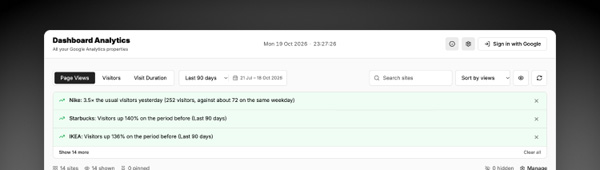
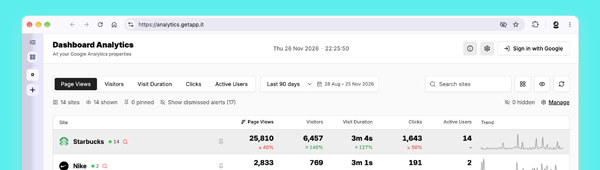
Update Italian translations and enhance footer content for clarity

diff --git a/index.html b/index.html
@@ -44,8 +44,8 @@
                   <span class="badge rounded-pill text-bg-light border"><small>Browser</small></span>
                   <span class="badge rounded-pill text-bg-light border"><small>Utility</small></span>
                 </div>
-                <h5 class="card-title mb-1 lh-sm">Islnd • Floating address bar</h5>
-                <p class="card-text lh-sm">A floating address bar for every page. Islnd is a browser extension for Firefox and Edge, with Chrome coming soon. Address, search, history and commandsin a small bar that floats over the web.</p>
+                <h5 class="card-title mb-1 lh-sm">Islnd • Barra degli indirizzi</h5>
+                <p class="card-text lh-sm">Una barra degli indirizzi fluttuante per ogni pagina. Island è un'estensione per browser disponibile per Firefox ed Edge; a breve arriverà anche per Chrome.</p>
               </div>
             </div>
           </div>
@@ -61,12 +61,12 @@
             <div class="col-12">
               <div class="card-body p-0">
                 <div class="mb-2">
-                  <span class="badge rounded-pill text-bg-light border"><small>Extensione</small></span>
-                  <span class="badge rounded-pill text-bg-light border"><small>Browser</small></span>
-                  <span class="badge rounded-pill text-bg-light border"><small>Utility</small></span>
+                  <span class="badge rounded-pill text-bg-light border"><small>Monitoraggio</small></span>
+                  <span class="badge rounded-pill text-bg-light border"><small>integrazione</small></span>
+                  <span class="badge rounded-pill text-bg-light border"><small>Multi-account</small></span>
                 </div>
                 <h5 class="card-title mb-1 lh-sm">Google Analytics Dashboard</h5>
-                <p class="card-text lh-sm">Dashboard Analytics brings the Google Analytics properties you can access into one place, with their key metrics and trends. It fetches data directly from Google and does not store it on its servers.</p>
+                <p class="card-text lh-sm">Dashboard Analytics riunisce in un unico punto le proprietà di Google Analytics a cui hai accesso, mostrandone le metriche e i trend principali.</p>
               </div>
             </div>
           </div>
@@ -88,7 +88,7 @@
                 </div>
 
                 <h5 class="card-title mb-1 lh-sm">Litteram • Markdown editor</h5>
-                <p class="card-text lh-sm">Litteram is a native Markdown editor for macOS that lets you write directly in real .md files. It combines live formatting, cursor-aware editing, without accounts or tracking.</p>
+                <p class="card-text lh-sm">Litteram è un editor Markdown nativo per macOS che ti consente di scrivere direttamente in file .md reali. Combina formattazione in tempo reale e modifica basata sulla posizione del cursore, il tutto senza account né tracciamento..</p>
               </div>
             </div>
           </div>
@@ -248,7 +248,8 @@
 
   <!-- Minimal Footer -->
   <footer class="text-center text-black-50 my-5">
-    <p class="h6 mb-3">Fatto con cura, da persone curiose</p>
+    <p class="h6 mb-1">Fatto con cura, da persone curiose.</p>
+    <p class="h6 mb-4">Se vuoi contattarci: <a class="text-black-50 btn-link link-offset-1" href="mailto:info@getapp.it">info@getapp.it</a></p>
     <p><small>&copy; 2026 GetApp.it</small></p>
   </footer>
 </body>
